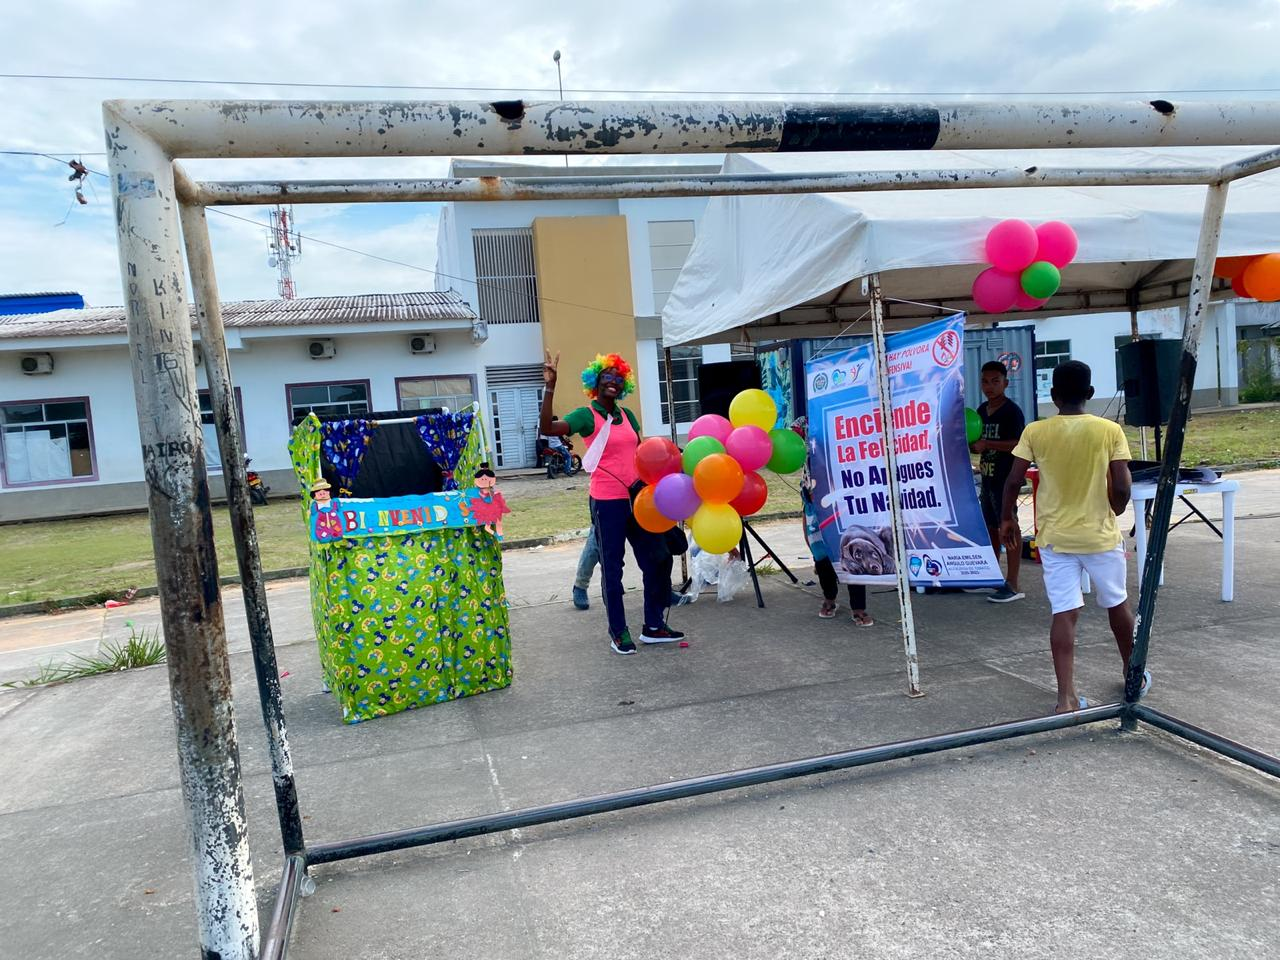
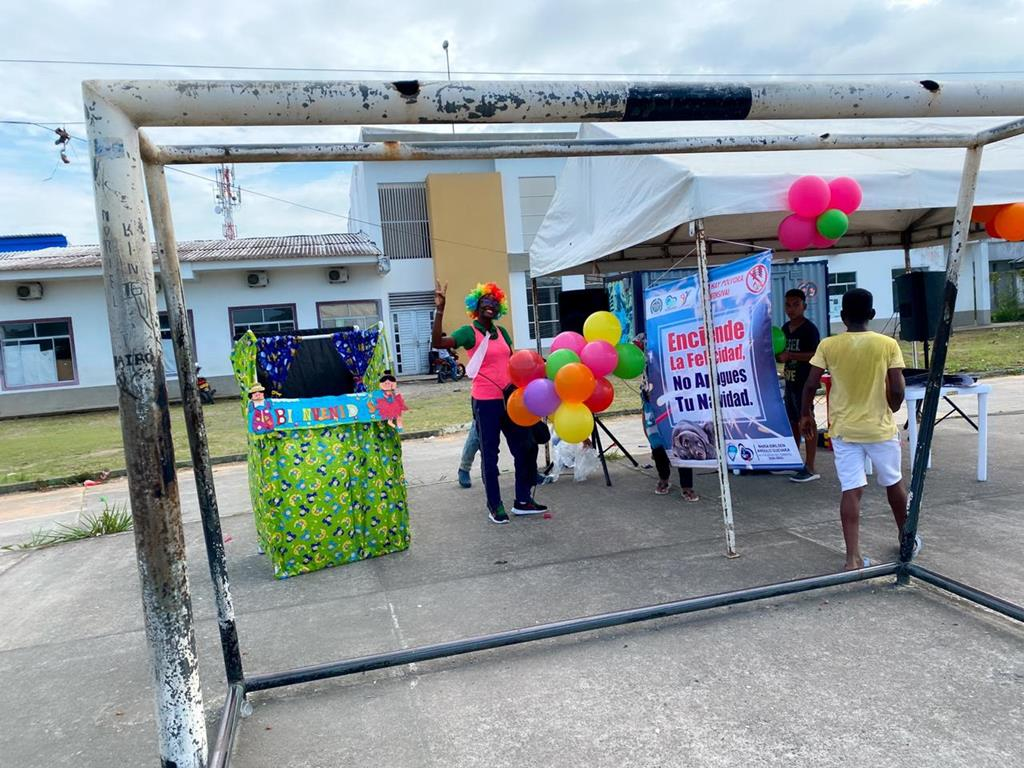
Se optimizo mas las imagenes

diff --git a/donation.html b/donation.html
@@ -183,30 +183,38 @@
         </div>
       </div>
   
-      <div class="footer__container__upcoming-events__list">
-        <div class="footer__container__upcoming-events__list__post">
-          <div class="container__upcoming-events__list__post__imgs">
-            <a href="" class="container__upcoming-events__list__post-link">
-              <img src="assets/Events/programas-sociales.jpeg" class="container__upcoming-events__list__post__img">
-            </a>
-          </div><a href="#" class="footer__container__upcoming-events__list__post_img-title__link"><h5 class="footer__container__upcoming-events__list__post_img-title">Atencion psicosocial</h5></a>
-
-          <div class="container__upcoming-events__list__post__info">
-            <i class="fa-solid fa-calendar"></i>
-            02 May, 2022
+      <div class="footer__container__upcoming-events">
+        <div class="footer__container__upcoming-events__column">
+          <div class="footer__container__upcoming-events__title">
+            <h4 class="footer__container__upcoming-events__text">Proximos eventos</h4>
           </div>
-        </div>
-        
-        <div class="footer__container__upcoming-events__list__post">
-          <div class="container__upcoming-events__list__post__imgs">
-            <a href="" class="container__upcoming-events__list__post-link">
-              <img src="assets/Events/programas-sociales-3.jpeg" class="container__upcoming-events__list__post__img">
-            </a>
-          </div><a href="#" class="footer__container__upcoming-events__list__post_img-title__link"><h5 class="footer__container__upcoming-events__list__post_img-title">Diagnóstico inicial en entidades que presten servicios de salud.</h5></a>
-
-          <div class="container__upcoming-events__list__post__info">
-            <i class="fa-solid fa-calendar"></i>
-            15 May, 2022
+  
+          <div class="footer__container__upcoming-events__list">
+            <div class="footer__container__upcoming-events__list__post">
+              <div class="container__upcoming-events__list__post__imgs">
+                <a href="" class="container__upcoming-events__list__post-link">
+                  <img src="assets/gallery/programas-sociales.jpeg" class="container__upcoming-events__list__post__img">
+                </a>
+              </div><a href="#" class="footer__container__upcoming-events__list__post_img-title__link"><h5 class="footer__container__upcoming-events__list__post_img-title">Atencion psicosocial</h5></a>
+  
+              <div class="container__upcoming-events__list__post__info">
+                <i class="fa-solid fa-calendar"></i>
+                02 May, 2022
+              </div>
+            </div>
+            
+            <div class="footer__container__upcoming-events__list__post">
+              <div class="container__upcoming-events__list__post__imgs">
+                <a href="" class="container__upcoming-events__list__post-link">
+                  <img src="assets/gallery/programas-sociales-3.jpeg" class="container__upcoming-events__list__post__img">
+                </a>
+              </div><a href="#" class="footer__container__upcoming-events__list__post_img-title__link"><h5 class="footer__container__upcoming-events__list__post_img-title">Diagnóstico inicial en entidades que presten servicios de salud.</h5></a>
+  
+              <div class="container__upcoming-events__list__post__info">
+                <i class="fa-solid fa-calendar"></i>
+                15 May, 2022
+              </div>
+            </div>
           </div>
         </div>
       </div>

diff --git a/index.html b/index.html
@@ -471,30 +471,38 @@
         </div>
       </div>
   
-      <div class="footer__container__upcoming-events__list">
-        <div class="footer__container__upcoming-events__list__post">
-          <div class="container__upcoming-events__list__post__imgs">
-            <a href="" class="container__upcoming-events__list__post-link">
-              <img src="assets/Events/programas-sociales.jpeg" class="container__upcoming-events__list__post__img">
-            </a>
-          </div><a href="#" class="footer__container__upcoming-events__list__post_img-title__link"><h5 class="footer__container__upcoming-events__list__post_img-title">Atencion psicosocial</h5></a>
-
-          <div class="container__upcoming-events__list__post__info">
-            <i class="fa-solid fa-calendar"></i>
-            02 May, 2022
+      <div class="footer__container__upcoming-events">
+        <div class="footer__container__upcoming-events__column">
+          <div class="footer__container__upcoming-events__title">
+            <h4 class="footer__container__upcoming-events__text">Proximos eventos</h4>
           </div>
-        </div>
-        
-        <div class="footer__container__upcoming-events__list__post">
-          <div class="container__upcoming-events__list__post__imgs">
-            <a href="" class="container__upcoming-events__list__post-link">
-              <img src="assets/Events/programas-sociales-3.jpeg" class="container__upcoming-events__list__post__img">
-            </a>
-          </div><a href="#" class="footer__container__upcoming-events__list__post_img-title__link"><h5 class="footer__container__upcoming-events__list__post_img-title">Diagnóstico inicial en entidades que presten servicios de salud.</h5></a>
-
-          <div class="container__upcoming-events__list__post__info">
-            <i class="fa-solid fa-calendar"></i>
-            15 May, 2022
+  
+          <div class="footer__container__upcoming-events__list">
+            <div class="footer__container__upcoming-events__list__post">
+              <div class="container__upcoming-events__list__post__imgs">
+                <a href="" class="container__upcoming-events__list__post-link">
+                  <img src="assets/gallery/programas-sociales.jpeg" class="container__upcoming-events__list__post__img">
+                </a>
+              </div><a href="#" class="footer__container__upcoming-events__list__post_img-title__link"><h5 class="footer__container__upcoming-events__list__post_img-title">Atencion psicosocial</h5></a>
+  
+              <div class="container__upcoming-events__list__post__info">
+                <i class="fa-solid fa-calendar"></i>
+                02 May, 2022
+              </div>
+            </div>
+            
+            <div class="footer__container__upcoming-events__list__post">
+              <div class="container__upcoming-events__list__post__imgs">
+                <a href="" class="container__upcoming-events__list__post-link">
+                  <img src="assets/gallery/programas-sociales-3.jpeg" class="container__upcoming-events__list__post__img">
+                </a>
+              </div><a href="#" class="footer__container__upcoming-events__list__post_img-title__link"><h5 class="footer__container__upcoming-events__list__post_img-title">Diagnóstico inicial en entidades que presten servicios de salud.</h5></a>
+  
+              <div class="container__upcoming-events__list__post__info">
+                <i class="fa-solid fa-calendar"></i>
+                15 May, 2022
+              </div>
+            </div>
           </div>
         </div>
       </div>
